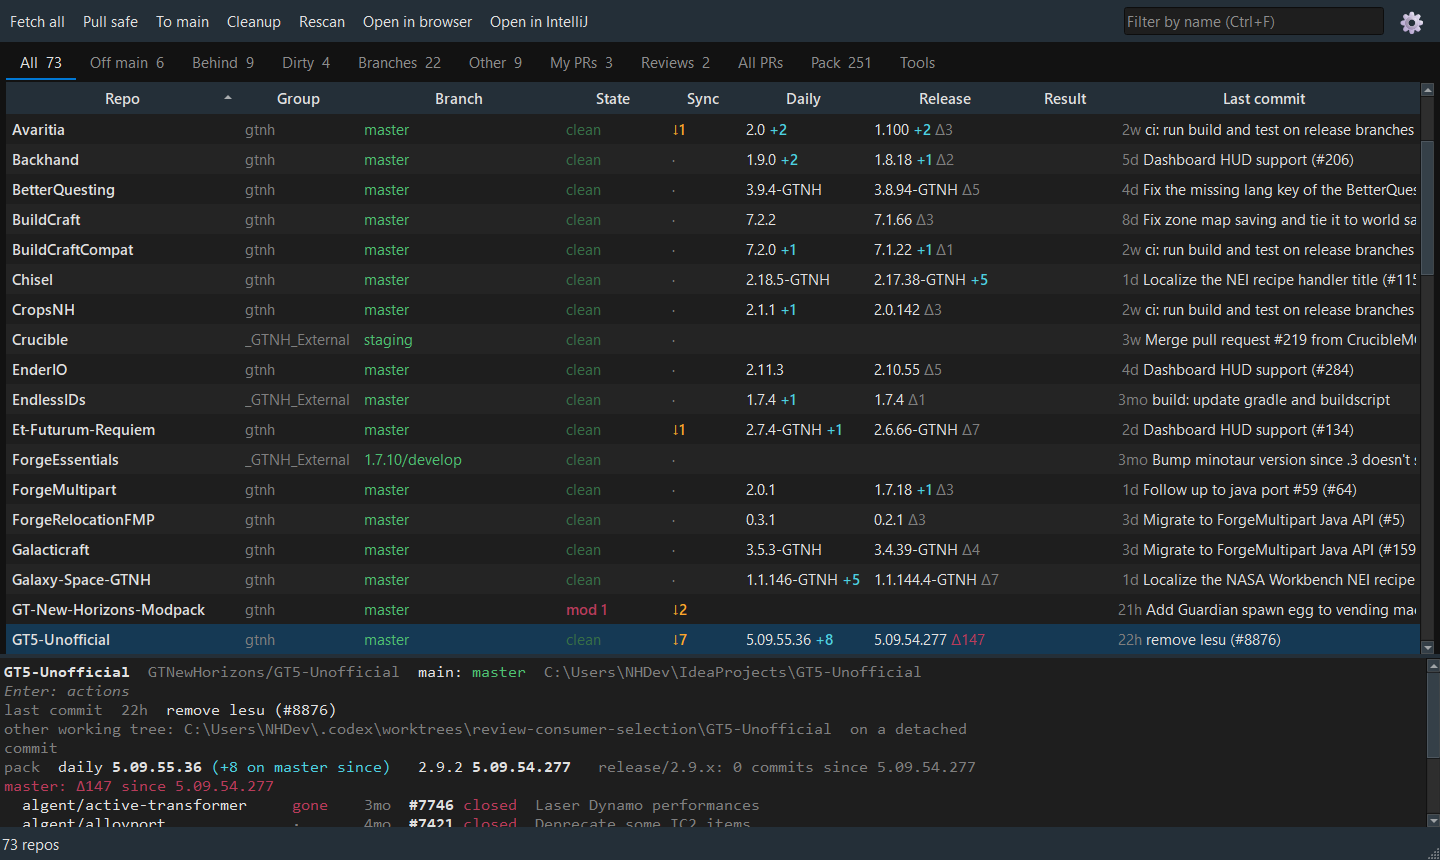
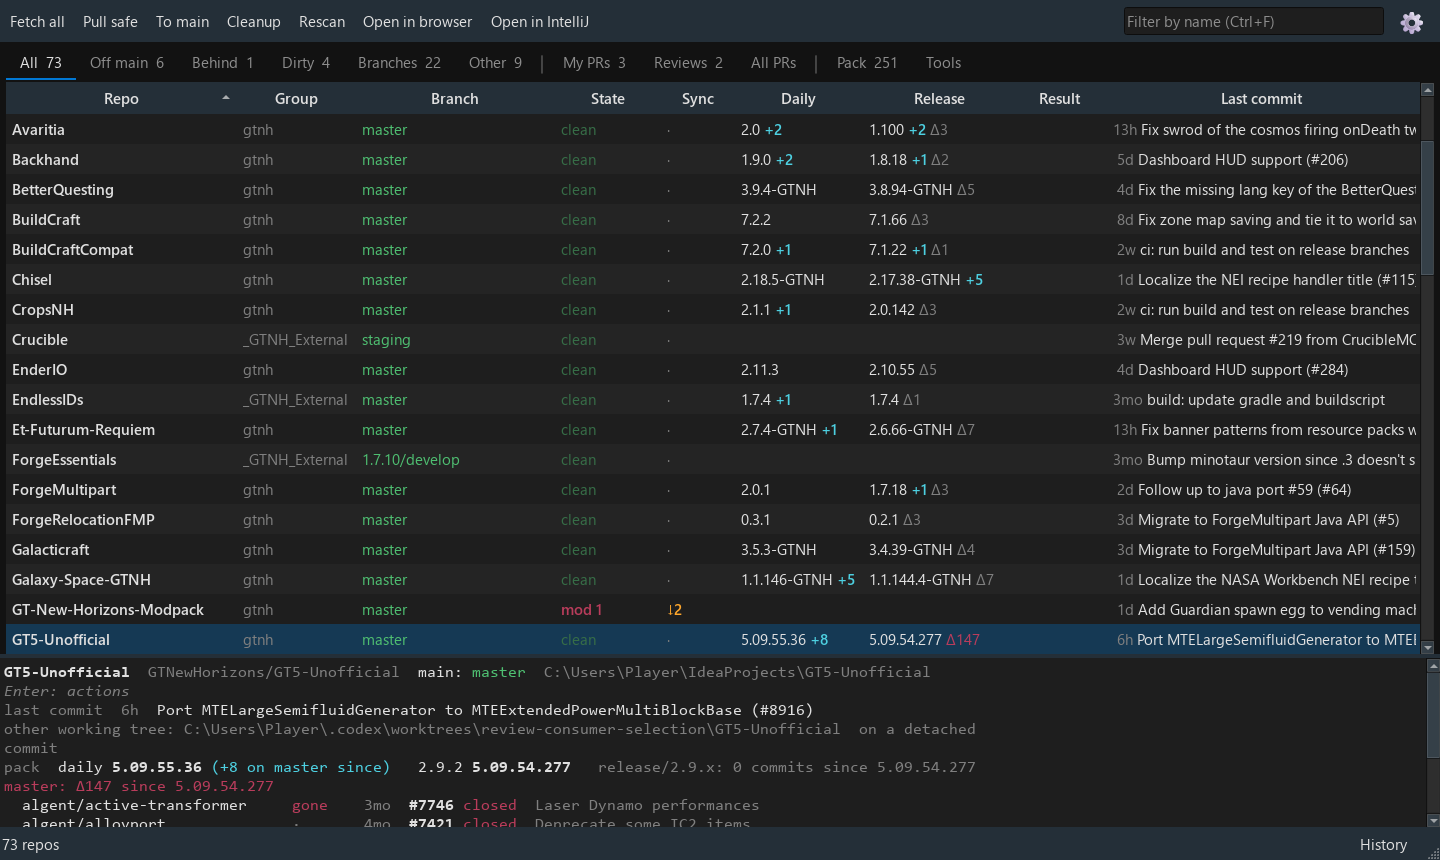
Wiki: new desktop and terminal screenshots (PNG), spark window screenshots

diff --git a/wiki/Spark-Profiles.md b/wiki/Spark-Profiles.md
@@ -56,6 +56,8 @@ defaults, changed in Settings > Keys):
 
 ## Desktop UI
 
+![The spark window's overview of a profile whose slow ticks are mostly world generation](images/spark-overview.png)
+
 The spark window has the same text report and keys under **Text report** (except that `Esc` there never closes
 the window), plus tabs to browse the profile.
 **Copy report for an LLM** (`y`) is always at the top.
@@ -74,6 +76,8 @@ the window), plus tabs to browse the profile.
 - For a heap summary, **Memory by class** lists every class and the total per mod.
 
 The thread picker at the top switches every tab to another thread.
+
+![The call tree of the same profile: chunk generation set off by a Galacticraft packet](images/spark-call-tree.png)
 
 ## On the command line
 

diff --git a/README.md b/README.md
@@ -13,7 +13,7 @@ Keeps a folder full of GTNH mod checkouts under control:
 
 Works on Windows, Linux and macOS. Everything else is in the [wiki](https://github.com/Algent/NH-Workbench/wiki).
 
-<img src="wiki/images/terminal-ui.svg" width="800" alt="The terminal UI: one line per checkout with its branch, state, and pack versions, and details on the selected repo">
+<img src="wiki/images/terminal-ui.png" width="800" alt="The terminal UI: one line per checkout with its branch, state, and pack versions, and details on the selected repo">
 
 ## Getting started
 

diff --git a/wiki/Terminal-UI.md b/wiki/Terminal-UI.md
@@ -7,7 +7,7 @@ launchers. The same in a window: [Desktop UI](Desktop-UI).
 `nh-workbench-web.cmd` / `nh-workbench-web.sh` launchers, which install it the first time. Each tab
 runs its own copy of the UI on this computer; links open in the browser, the IDE and folders open locally.
 
-![The terminal UI on the All tab](images/terminal-ui.svg)
+![The terminal UI on the All tab](images/terminal-ui.png)
 
 ## Tabs
 
